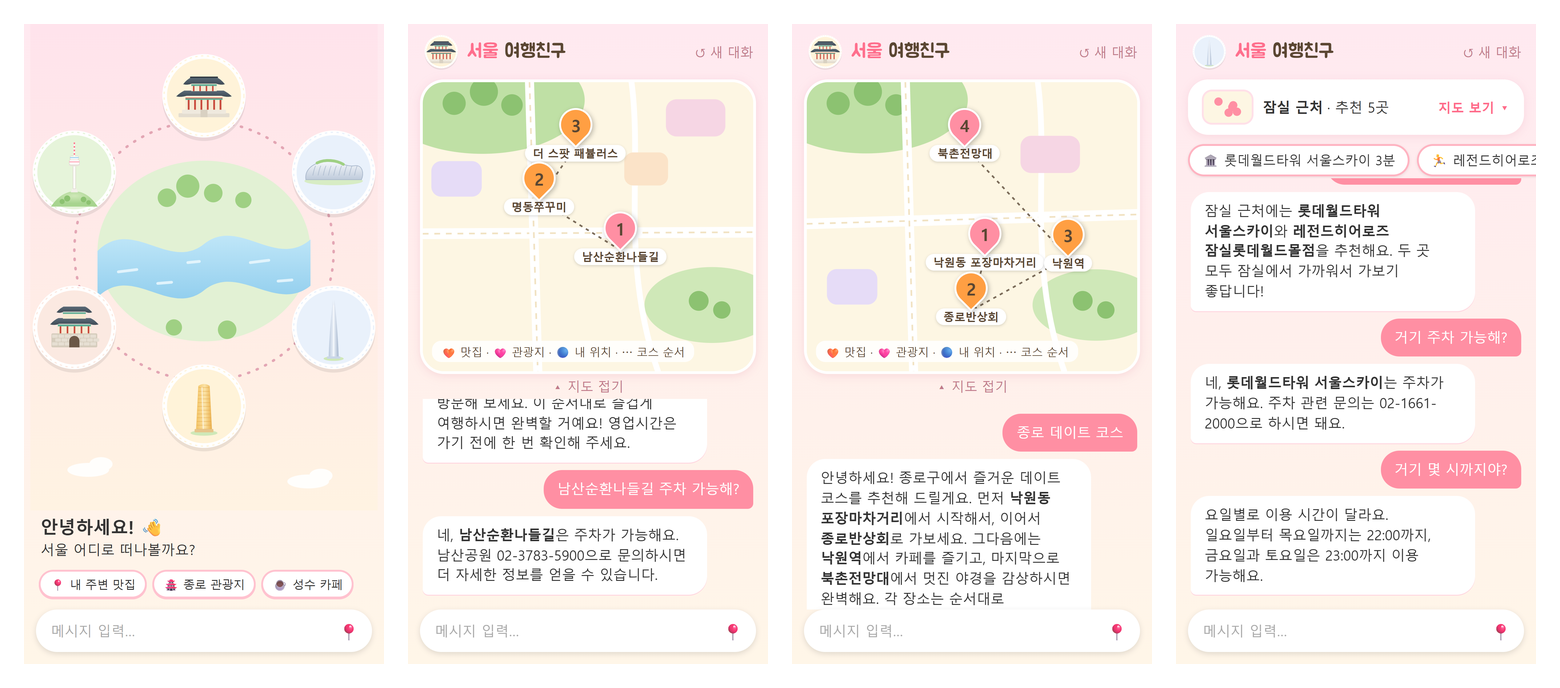
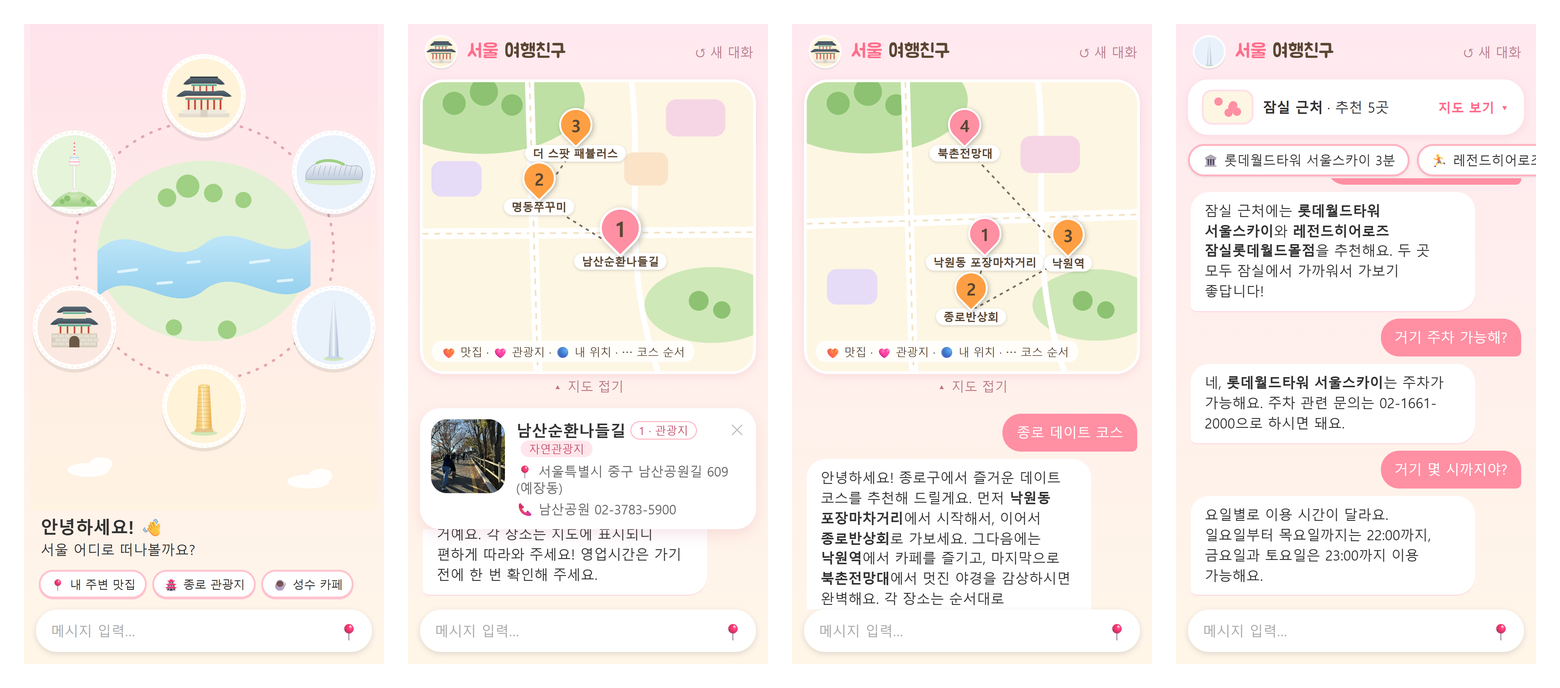
docs: README 2번 캡처를 코스 핀을 눌러 뜬 장소 카드 화면으로

Changed region(s): [[0.2769, 0.5799, 0.4923, 0.8547], [0.3692, 0.3052, 0.4308, 0.3968]]

diff --git a/README.md b/README.md
@@ -6,8 +6,8 @@
 "종로 데이트 코스"라고 하면 **걸어서 이어지는 3~4곳 코스**를 짜 줍니다.
 
 <p align="center">
-  <img src="docs/images/overview.png" alt="① 첫 화면 → ② 관광 코스와 주차 묻기 → ③ 추천 코스(번호 핀·점선) → ④ 거기 주차 가능해?·몇 시까지야? 이어 묻기" width="100%"><br>
-  <sub>① 첫 화면 · ② "서울에서 가볼만한 관광 코스" → "남산순환나들길 주차 가능해?" · ③ 종로 데이트 코스 · ④ "거기 주차 가능해?" → "거기 몇 시까지야?" 이어 묻기</sub>
+  <img src="docs/images/overview.png" alt="① 첫 화면 → ② 관광 코스에서 1번 핀을 누른 장소 카드 → ③ 추천 코스(번호 핀·점선) → ④ 거기 주차 가능해?·몇 시까지야? 이어 묻기" width="100%"><br>
+  <sub>① 첫 화면 · ② "서울에서 가볼만한 관광 코스" → 1번 남산순환나들길 핀을 눌러 뜬 카드 · ③ 종로 데이트 코스 · ④ "거기 주차 가능해?" → "거기 몇 시까지야?" 이어 묻기</sub>
 </p>
 
 > 한국관광공사 데이터에 있는 서울 장소 3,441곳 안에서만 추천합니다.
